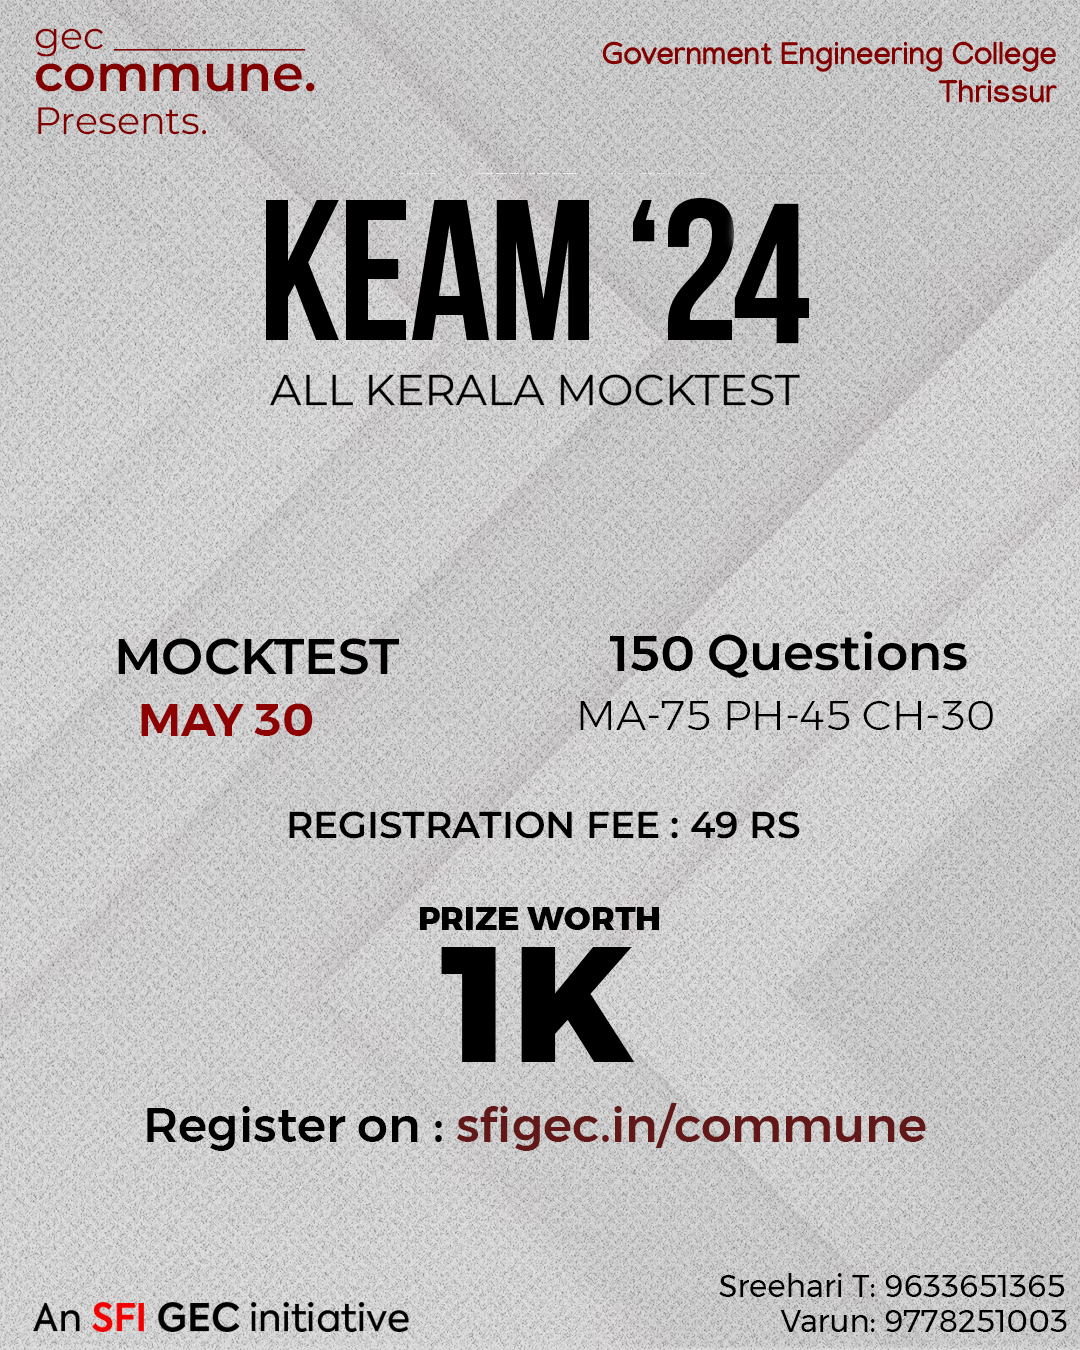
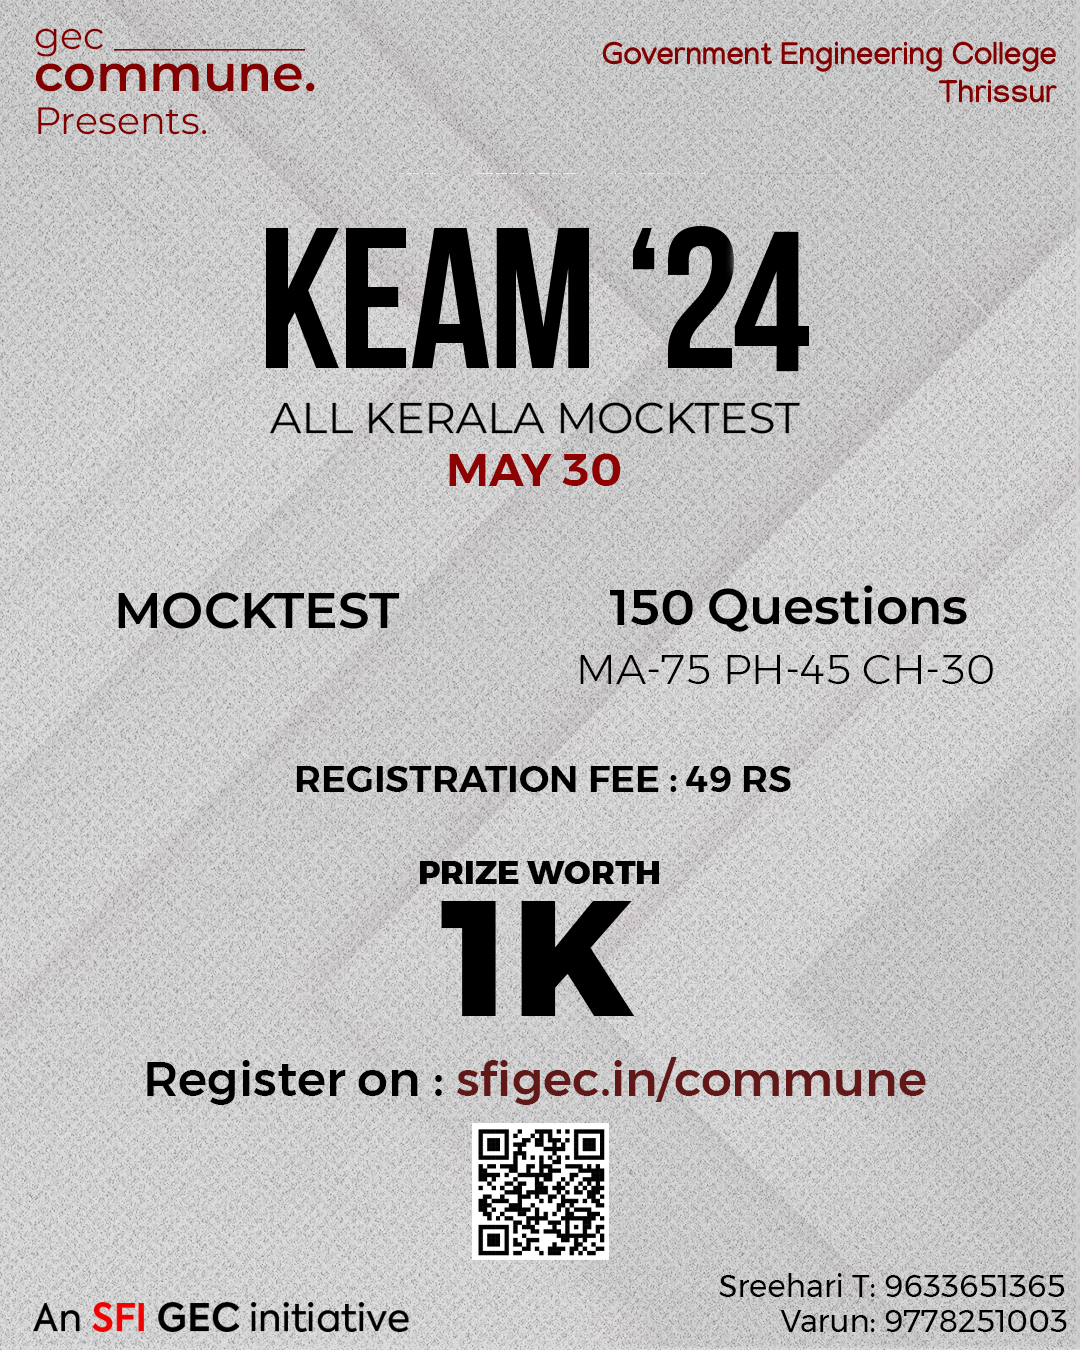
Poster updated and form updated

Changed region(s): [[0.0, 0.0, 1.0, 1.0]]

diff --git a/commune.html b/commune.html
@@ -129,7 +129,7 @@
     </div> -->
     <div class="container-fluid p-4 mb-9">
       <div class="buttons hover">
-        <a href="https://forms.gle/MFjiQwwksyYhoM8i7" target="_blank">Register Mock Test </a>
+        <a href="https://forms.gle/hR6VwuSEah34qqEJ8" target="_blank">Register Mock Test </a>
       </div>
     </div>
     <!-- <div class="container-fluid p-4 ml-1 mb-9">
